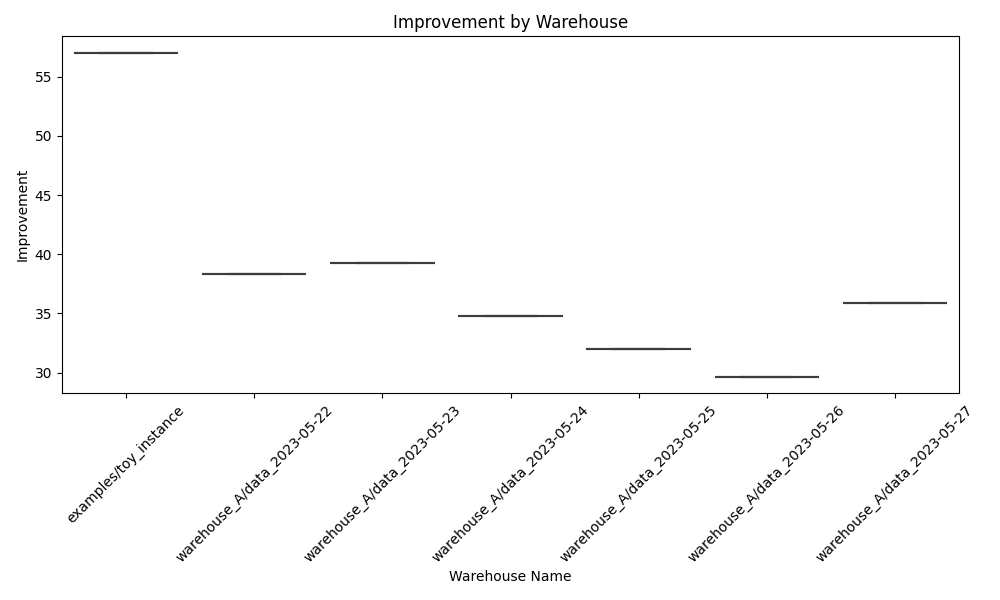
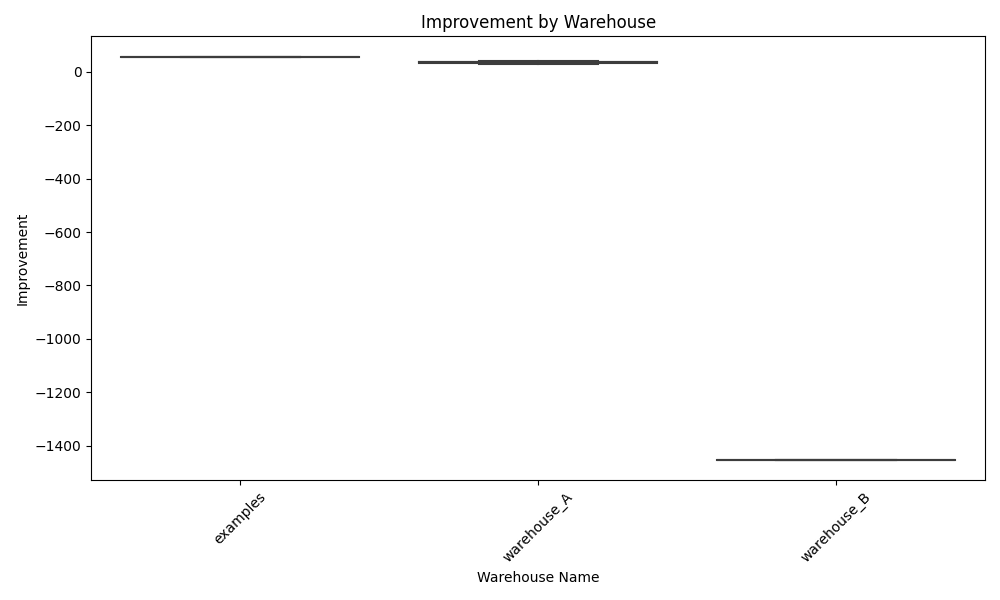
new solutions

diff --git a/src/services/benchmark.py b/src/services/benchmark.py
@@ -39,13 +39,17 @@ class Benchmark(IO):
             .reset_index()
         )
         stats.columns = ["Statistic", "Value"]
-        filename = path.join(self.output_dir, "stats.csv")
+        filename = path.join(self.output_dir, "improvement_stats.csv")
         stats.to_csv(filename, index=False)
 
     def save_boxplot(self) -> None:
         """Save the boxplot of the benchmark."""
+        self.results["warehouse_name"] = (
+            self.results["instance_name"].str.split("/").str[-2]
+        )
+
         plt.figure(figsize=(10, 6))
-        sns.boxplot(x="instance_name", y="improvement", data=self.results)
+        sns.boxplot(x="warehouse_name", y="improvement", data=self.results)
         plt.title("Improvement by Warehouse")
         plt.xlabel("Warehouse Name")
         plt.ylabel("Improvement")

diff --git a/src/domain/BatchPicking.py b/src/domain/BatchPicking.py
@@ -35,7 +35,7 @@ def optimize(method: str, instance_name: str, timeout: int) -> None:
             instance_name=instance_name,
             batches=routes,
         )
-        info(f"BatchPicking | Finish optimization | {str(solution)}")
+        info(f"BatchPicking | Finished in {time} seconds | {str(solution)}")
         solution.save(time)
 
     except Exception as err:
